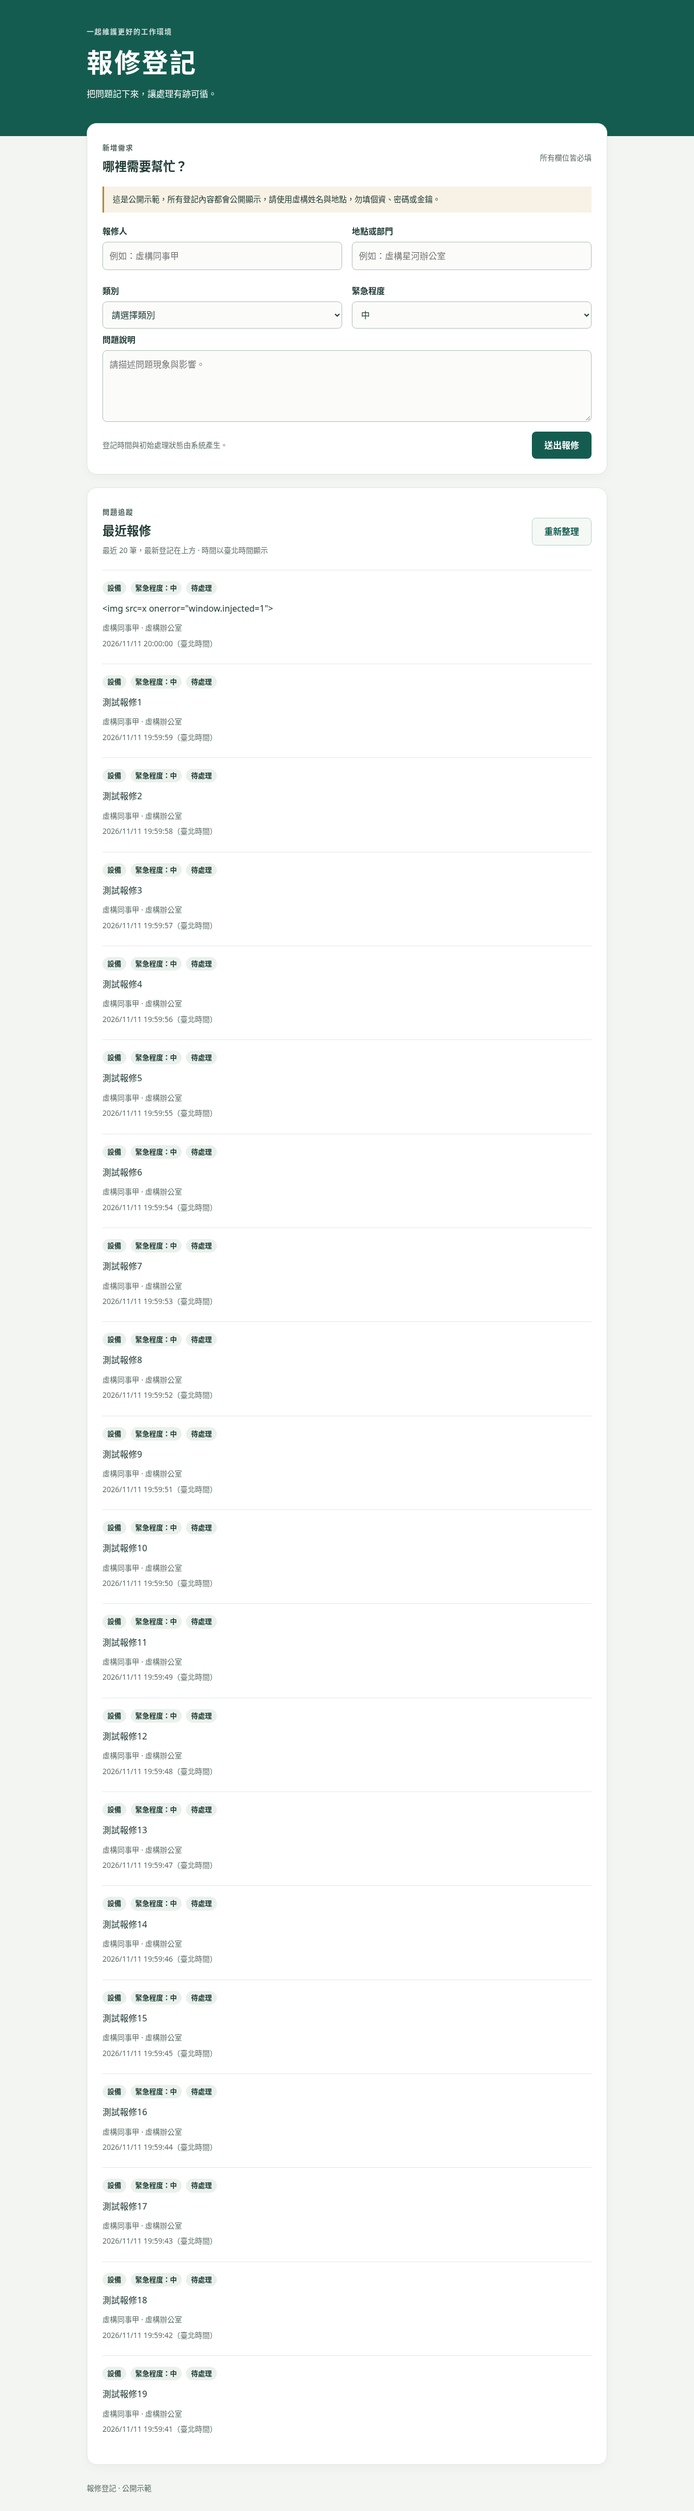
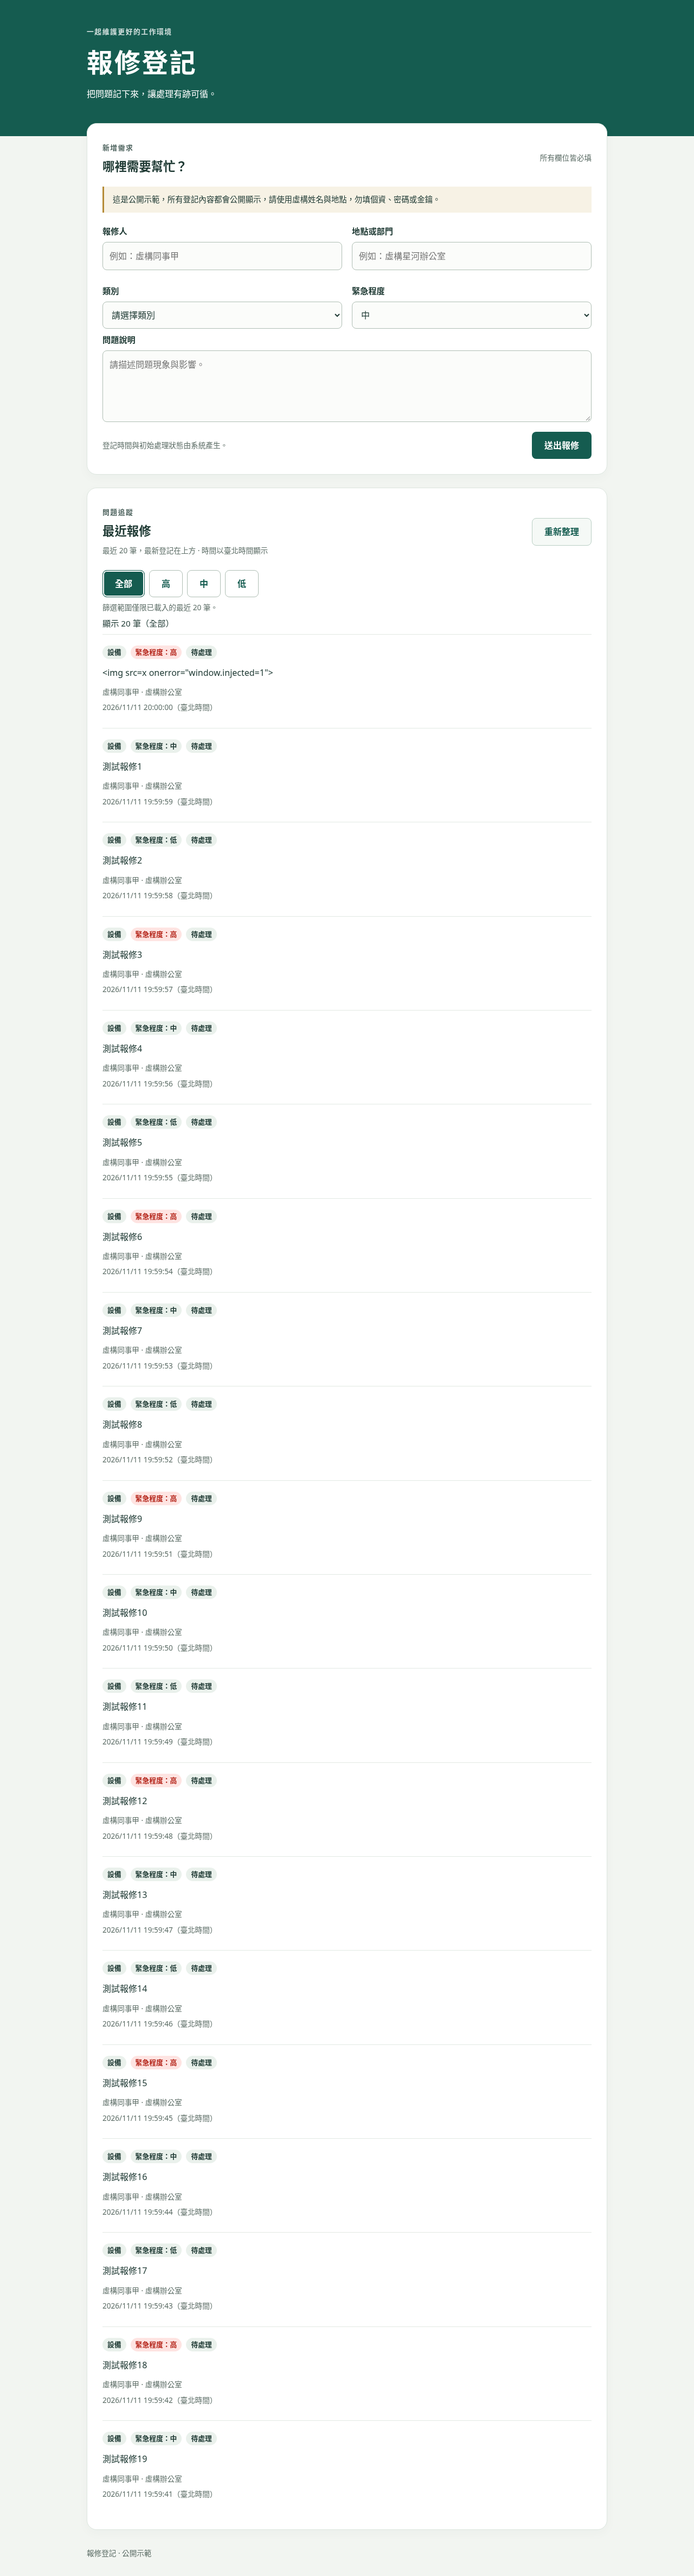
新增報修清單緊急程度篩選

Changed region(s): [[0.125, 0.0, 0.8438, 0.9639], [0.75, 0.1555, 0.8438, 0.2177]]

diff --git a/app.js b/app.js
@@ -7,9 +7,13 @@
   const formMessage = document.querySelector('#form-message');
   const listMessage = document.querySelector('#list-message');
   const list = document.querySelector('#repair-list');
+  const filterButtons = [...document.querySelectorAll('#urgency-filters button')];
+  const filterMessage = document.querySelector('#filter-message');
   const columns = 'id,created_at,reporter_name,location,category,description,urgency,status';
   let client;
   let submitting = false;
+  let cachedRequests = [];
+  let selectedUrgency = '全部';
 
   function message(element, text, kind = '') {
     element.textContent = text;
@@ -44,6 +48,26 @@
     list.replaceChildren(fragment);
   }
 
+  // 篩選只使用記憶體內已載入的資料，不重新查詢資料庫。
+  function renderFiltered() {
+    const rows = selectedUrgency === '全部' ? cachedRequests
+      : cachedRequests.filter((row) => row.urgency === selectedUrgency);
+    render(rows);
+    for (const button of filterButtons) {
+      button.setAttribute('aria-pressed', String(button.dataset.urgency === selectedUrgency));
+    }
+    message(filterMessage, cachedRequests.length
+      ? rows.length ? `顯示 ${rows.length} 筆（${selectedUrgency}）` : `最近 20 筆中沒有緊急程度為「${selectedUrgency}」的報修。`
+      : '');
+  }
+
+  for (const button of filterButtons) {
+    button.addEventListener('click', () => {
+      selectedUrgency = button.dataset.urgency;
+      renderFiltered();
+    });
+  }
+
   async function loadRequests() {
     refreshButton.disabled = true;
     list.setAttribute('aria-busy', 'true');
@@ -52,10 +76,11 @@
       const { data, error } = await client.from('repair_requests').select(columns)
         .order('created_at', { ascending: false }).order('id', { ascending: false }).limit(20);
       if (error) throw error;
-      render(data || []);
+      cachedRequests = data || [];
+      renderFiltered();
       message(listMessage, data?.length ? '' : '目前還沒有報修紀錄。');
     } catch (error) {
-      message(listMessage, `清單載入失敗，請按「重新整理」重試。${list.childElementCount ? '下方保留上次載入的清單。' : ''} ${error.message || '請檢查網路連線。'}`, 'error');
+      message(listMessage, `清單載入失敗，請按「重新整理」重試。${cachedRequests.length ? '下方保留上次載入的清單。' : ''} ${error.message || '請檢查網路連線。'}`, 'error');
     } finally {
       refreshButton.disabled = false;
       list.setAttribute('aria-busy', 'false');

diff --git a/index.html b/index.html
@@ -30,6 +30,14 @@
     </section>
     <section class="panel" aria-labelledby="list-title">
       <div class="section-heading"><div><p class="eyebrow">問題追蹤</p><h2 id="list-title">最近報修</h2><p class="note">最近 20 筆，最新登記在上方 · 時間以臺北時間顯示</p></div><button id="refresh-button" class="secondary" type="button" disabled>重新整理</button></div>
+      <div id="urgency-filters" class="filters" role="group" aria-label="依緊急程度篩選最近 20 筆報修">
+        <button type="button" data-urgency="全部" aria-pressed="true" aria-controls="repair-list">全部</button>
+        <button type="button" data-urgency="高" aria-pressed="false" aria-controls="repair-list">高</button>
+        <button type="button" data-urgency="中" aria-pressed="false" aria-controls="repair-list">中</button>
+        <button type="button" data-urgency="低" aria-pressed="false" aria-controls="repair-list">低</button>
+      </div>
+      <p class="note">篩選範圍僅限已載入的最近 20 筆。</p>
+      <p id="filter-message" class="message" role="status" aria-live="polite"></p>
       <p id="list-message" class="message" role="status" aria-live="polite">正在載入清單…</p>
       <div id="repair-list" aria-busy="true"></div>
     </section>

diff --git a/style.css b/style.css
@@ -31,7 +31,11 @@ button:disabled { opacity: .55; cursor: wait; }
 .request { padding: 20px 0; border-top: 1px solid #e2e9e3; overflow-wrap: anywhere; }
 .request-top { display: flex; gap: 8px; flex-wrap: wrap; align-items: center; }
 .badge { font-size: .8rem; padding: 2px 9px; border-radius: 20px; background: #eaf1ec; font-weight: 600; }
-.badge.urgent { color: #96392e; background: #fcebe7; }
+.badge.urgent { color: #b42318; background: #fee4e2; }
+.filters { display: flex; gap: 8px; flex-wrap: wrap; margin-bottom: 8px; }
+.filters button { min-width: 56px; color: #155c50; background: #fff; border-color: #afbeb4; }
+.filters button[aria-pressed="true"] { color: #fff; background: #155c50; border-color: #155c50; box-shadow: inset 0 0 0 2px #fff; }
+.filters button:hover { border-color: #155c50; }
 .description { white-space: pre-wrap; margin: 12px 0; }
 .metadata { color: #5b6c65; font-size: .85rem; }
 footer { padding: 8px 0 30px; color: #5b6c65; font-size: .85rem; }

diff --git a/README.md b/README.md
@@ -14,4 +14,6 @@ GitHub Pages：在儲存庫 Settings → Pages 選擇 Deploy from a branch，分
 
 ## 前端驗證
 
+最近報修上方提供「全部／高／中／低」緊急程度篩選，預設全部；選取的按鈕以深色背景與按下狀態標示。篩選僅針對網頁已讀取的最近 20 筆，不會新增資料庫請求，沒有符合項目時顯示提示；重新整理或新增成功後保留篩選選項。緊急程度為「高」的標籤使用紅字與淡紅背景。本次未變更資料庫、欄位、SQL 或 `supabase/` 資料夾。
+
 語法檢查：`node --check app.js` 與 `node --check config.js`。瀏覽器測試需 Node.js、Playwright、Chromium 及上述本機伺服器，執行 `node tests/frontend.cjs`；可用 `CHROMIUM_PATH` 指定瀏覽器、`BASE_URL` 指定預覽網址、`SDK_PATH` 指定已下載的同版本 CDN 程式。本測試模擬 API，不會寫入真實資料庫。
